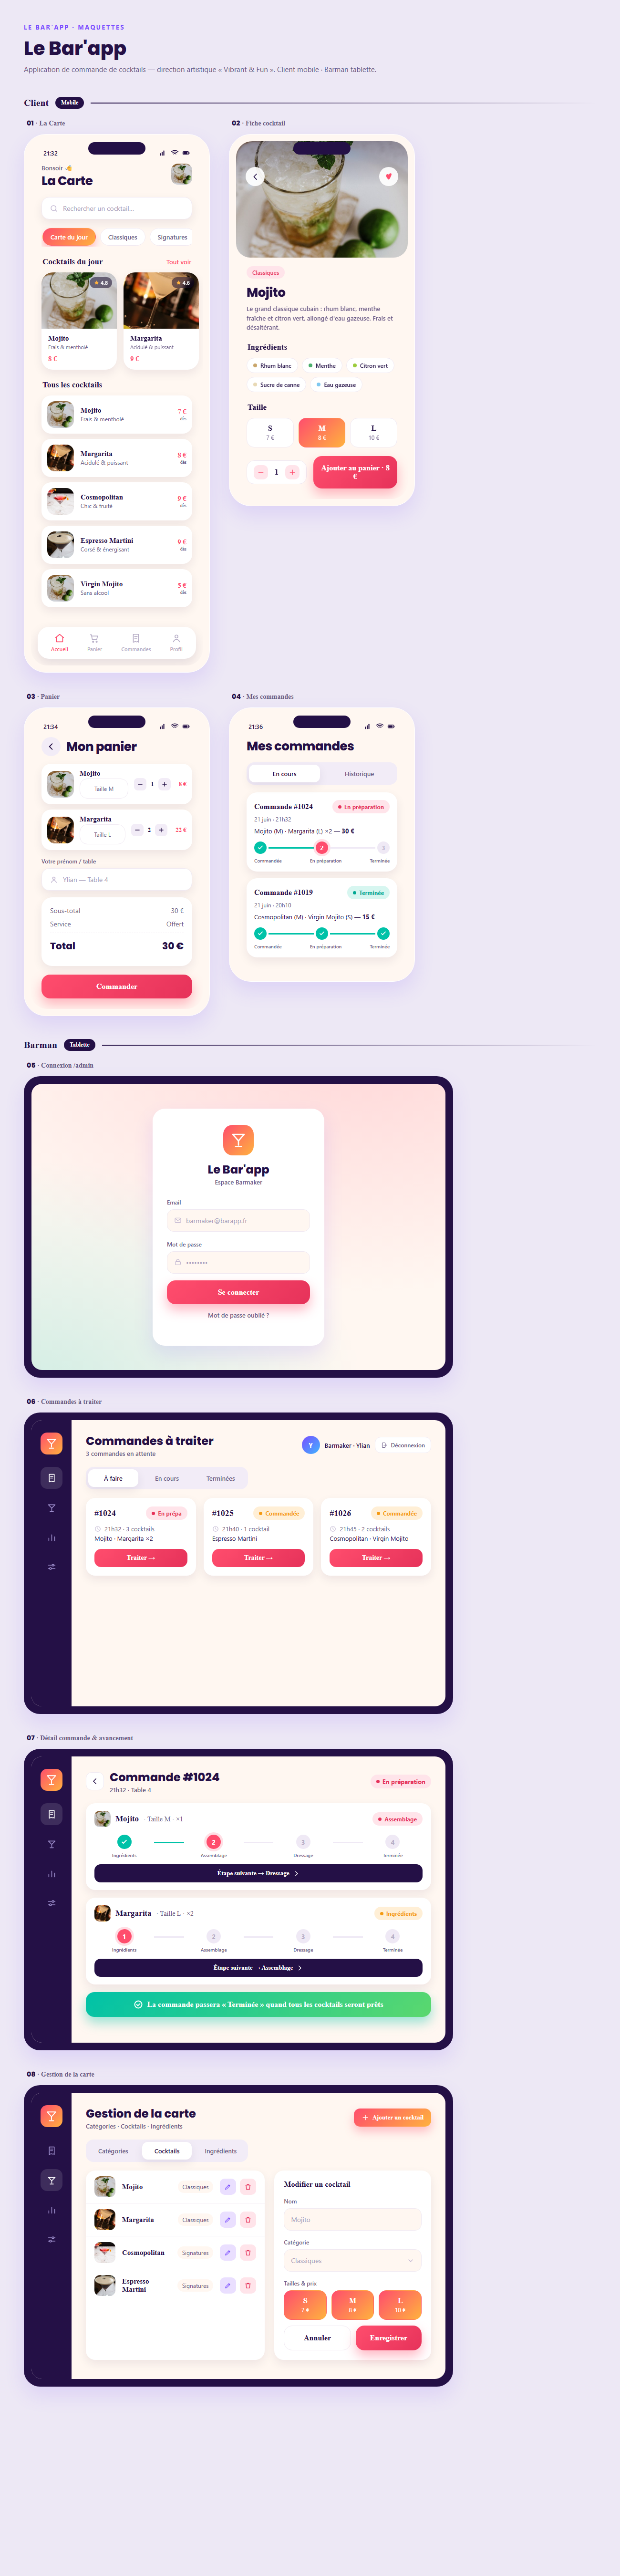
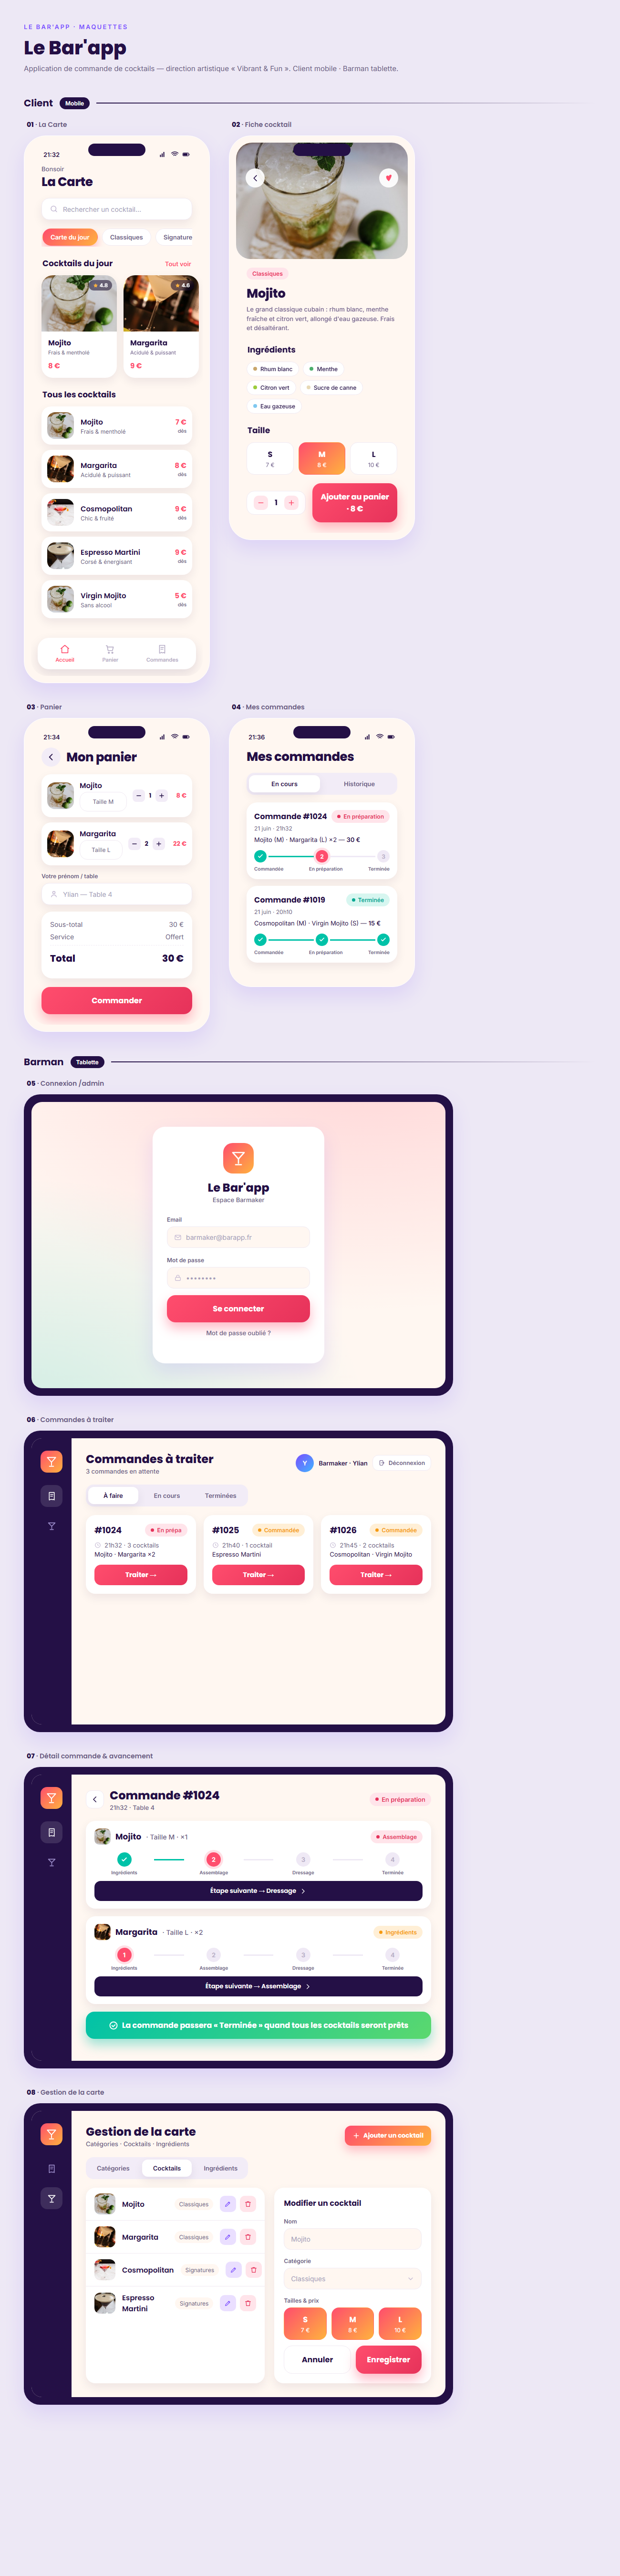
La maquette à était mise à jour

diff --git a/maquettes/barapp-maquettes.html b/maquettes/barapp-maquettes.html
@@ -255,8 +255,7 @@ img{display:block}
       </span></div>
       <div class="pad">
         <div style="display:flex;justify-content:space-between;align-items:flex-start;margin-bottom:14px">
-          <div><div class="sub">Bonsoir 👋</div><div class="h-title">La Carte</div></div>
-          <img class="headpic" src="img/mojito.jpg" alt="">
+          <div><div class="sub">Bonsoir</div><div class="h-title">La Carte</div></div>
         </div>
         <div class="search"><svg viewBox="0 0 24 24" fill="none" stroke="currentColor" stroke-width="2" stroke-linecap="round"><circle cx="11" cy="11" r="7"/><path d="M20 20l-3.5-3.5"/></svg>Rechercher un cocktail…</div>
         <div class="chips" style="margin-top:16px">
@@ -280,7 +279,6 @@ img{display:block}
         <div class="b on"><svg viewBox="0 0 24 24" fill="none" stroke="currentColor" stroke-width="1.8" stroke-linecap="round" stroke-linejoin="round"><path d="M3 10.5 12 3l9 7.5"/><path d="M5 9.5V20h14V9.5"/></svg>Accueil</div>
         <div class="b"><svg viewBox="0 0 24 24" fill="none" stroke="currentColor" stroke-width="1.8" stroke-linecap="round" stroke-linejoin="round"><circle cx="9" cy="20" r="1.4"/><circle cx="17" cy="20" r="1.4"/><path d="M3 4h2l2.2 11h10l2-8H6.5"/></svg>Panier</div>
         <div class="b"><svg viewBox="0 0 24 24" fill="none" stroke="currentColor" stroke-width="1.8" stroke-linecap="round" stroke-linejoin="round"><path d="M6 3h12v18l-2.5-1.6L13 20.4 10.5 19 8 20.4 6 21z"/><path d="M9 8h6M9 12h5"/></svg>Commandes</div>
-        <div class="b"><svg viewBox="0 0 24 24" fill="none" stroke="currentColor" stroke-width="1.8" stroke-linecap="round" stroke-linejoin="round"><circle cx="12" cy="8" r="3.4"/><path d="M5 20c1.4-3.6 4-5.2 7-5.2s5.6 1.6 7 5.2"/></svg>Profil</div>
       </div>
     </div></div>
   </div>
@@ -418,8 +416,6 @@ img{display:block}
         <div class="nav">
           <div class="i on"><svg viewBox="0 0 24 24" fill="none" stroke="currentColor" stroke-width="1.8" stroke-linecap="round" stroke-linejoin="round"><path d="M6 3h12v18l-2.5-1.6L13 20.4 10.5 19 8 20.4 6 21z"/><path d="M9 8h6M9 12h5"/></svg></div>
           <div class="i"><svg viewBox="0 0 24 24" fill="none" stroke="currentColor" stroke-width="1.8" stroke-linecap="round" stroke-linejoin="round"><path d="M4 5h16l-8 8z"/><path d="M12 13v6"/><path d="M8 21h8"/></svg></div>
-          <div class="i"><svg viewBox="0 0 24 24" fill="none" stroke="currentColor" stroke-width="1.8" stroke-linecap="round" stroke-linejoin="round"><path d="M5 20v-6M12 20V6M19 20v-9"/></svg></div>
-          <div class="i"><svg viewBox="0 0 24 24" fill="none" stroke="currentColor" stroke-width="1.8" stroke-linecap="round"><path d="M4 8h9M17 8h3M4 16h3M11 16h9"/><circle cx="15" cy="8" r="2.2"/><circle cx="9" cy="16" r="2.2"/></svg></div>
         </div>
       </div>
       <div class="main">
@@ -445,8 +441,6 @@ img{display:block}
         <div class="nav">
           <div class="i on"><svg viewBox="0 0 24 24" fill="none" stroke="currentColor" stroke-width="1.8" stroke-linecap="round" stroke-linejoin="round"><path d="M6 3h12v18l-2.5-1.6L13 20.4 10.5 19 8 20.4 6 21z"/><path d="M9 8h6M9 12h5"/></svg></div>
           <div class="i"><svg viewBox="0 0 24 24" fill="none" stroke="currentColor" stroke-width="1.8" stroke-linecap="round" stroke-linejoin="round"><path d="M4 5h16l-8 8z"/><path d="M12 13v6"/><path d="M8 21h8"/></svg></div>
-          <div class="i"><svg viewBox="0 0 24 24" fill="none" stroke="currentColor" stroke-width="1.8" stroke-linecap="round" stroke-linejoin="round"><path d="M5 20v-6M12 20V6M19 20v-9"/></svg></div>
-          <div class="i"><svg viewBox="0 0 24 24" fill="none" stroke="currentColor" stroke-width="1.8" stroke-linecap="round"><path d="M4 8h9M17 8h3M4 16h3M11 16h9"/><circle cx="15" cy="8" r="2.2"/><circle cx="9" cy="16" r="2.2"/></svg></div>
         </div>
       </div>
       <div class="main">
@@ -487,8 +481,6 @@ img{display:block}
         <div class="nav">
           <div class="i"><svg viewBox="0 0 24 24" fill="none" stroke="currentColor" stroke-width="1.8" stroke-linecap="round" stroke-linejoin="round"><path d="M6 3h12v18l-2.5-1.6L13 20.4 10.5 19 8 20.4 6 21z"/><path d="M9 8h6M9 12h5"/></svg></div>
           <div class="i on"><svg viewBox="0 0 24 24" fill="none" stroke="currentColor" stroke-width="1.8" stroke-linecap="round" stroke-linejoin="round"><path d="M4 5h16l-8 8z"/><path d="M12 13v6"/><path d="M8 21h8"/></svg></div>
-          <div class="i"><svg viewBox="0 0 24 24" fill="none" stroke="currentColor" stroke-width="1.8" stroke-linecap="round" stroke-linejoin="round"><path d="M5 20v-6M12 20V6M19 20v-9"/></svg></div>
-          <div class="i"><svg viewBox="0 0 24 24" fill="none" stroke="currentColor" stroke-width="1.8" stroke-linecap="round"><path d="M4 8h9M17 8h3M4 16h3M11 16h9"/><circle cx="15" cy="8" r="2.2"/><circle cx="9" cy="16" r="2.2"/></svg></div>
         </div>
       </div>
       <div class="main">

diff --git a/JOURNAL.md b/JOURNAL.md
@@ -113,6 +113,9 @@ Légende : ⬜ à faire · ⏳ en cours · ✅ fait
   À importer dans Figma via plugin html.to.design et/ou exporter en PDF. Servira de base au front Vue.
 - Maquettes enrichies : vraies photos de cocktails (TheCocktailDB, en local dans `maquettes/img/`)
   + icônes SVG propres. **Étape maquettes VALIDÉE** ✅.
+- Nettoyage final (principe « rien d'inutile dans la spec ») : menu barman = 2 sections
+  (Commandes à traiter + Gestion de la carte) ; barre client = 3 onglets (Accueil/Panier/Commandes,
+  « Profil » retiré car compte client non demandé). Polices = Poppins (titres) + Inter (texte).
 
 ---
 